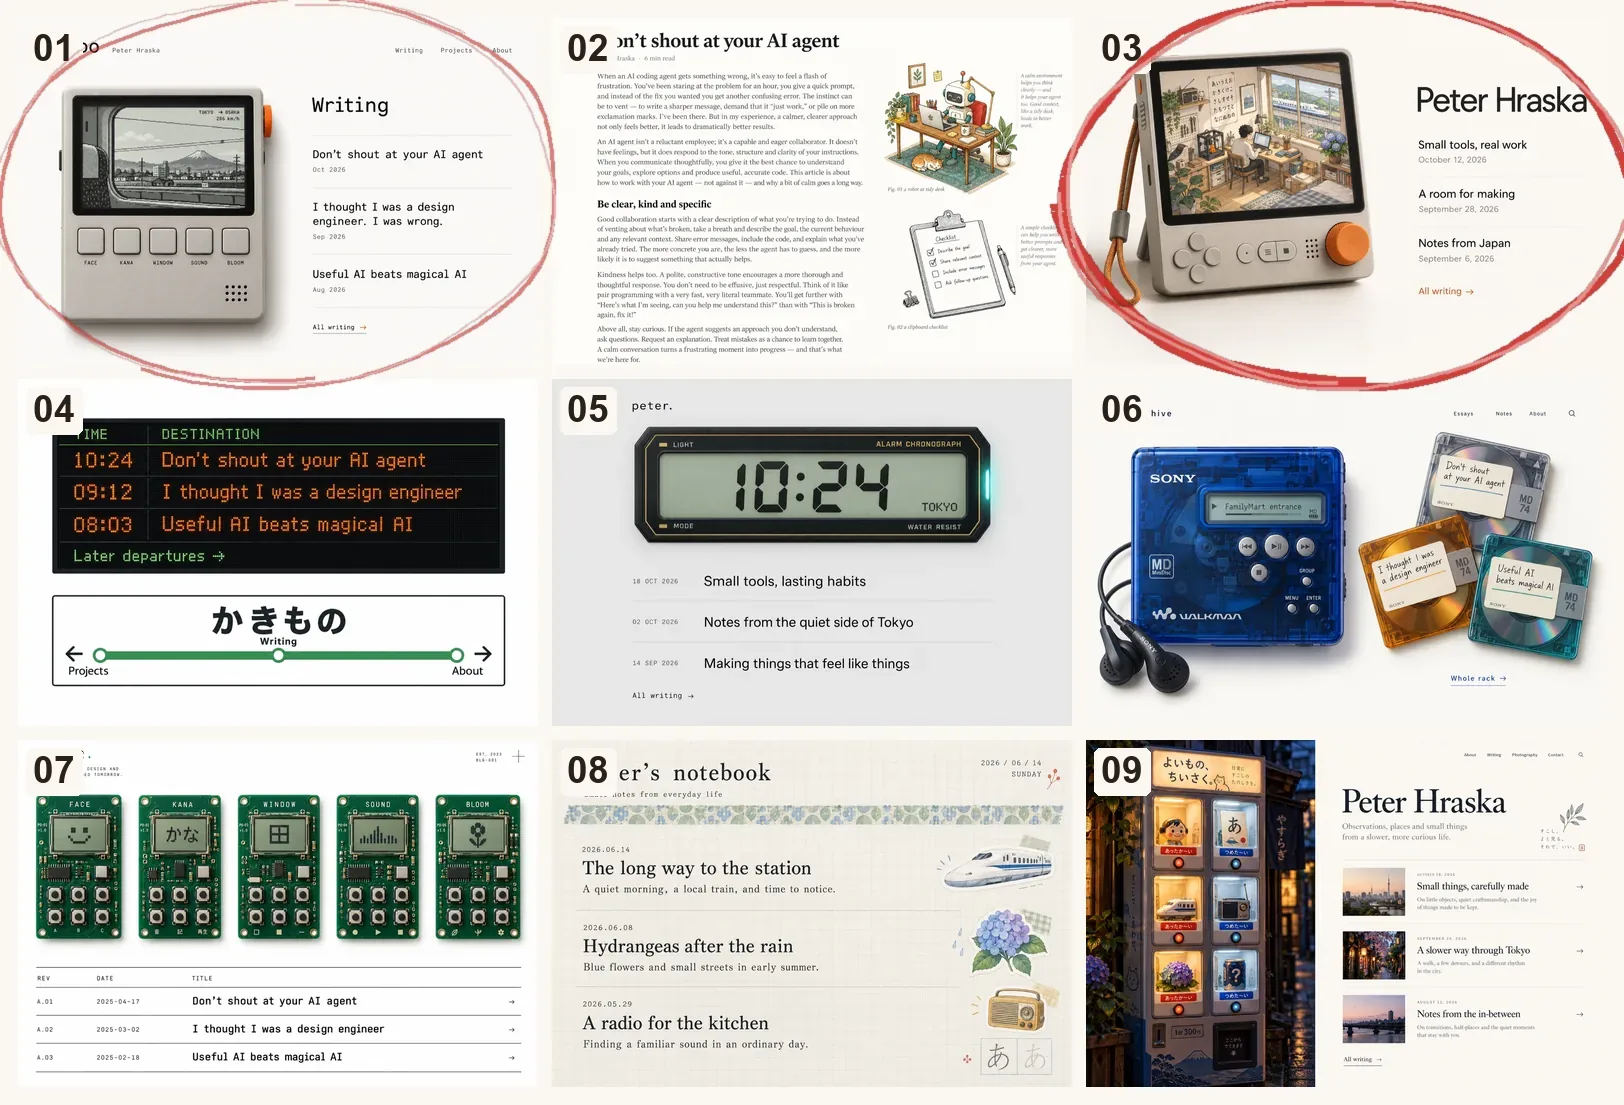
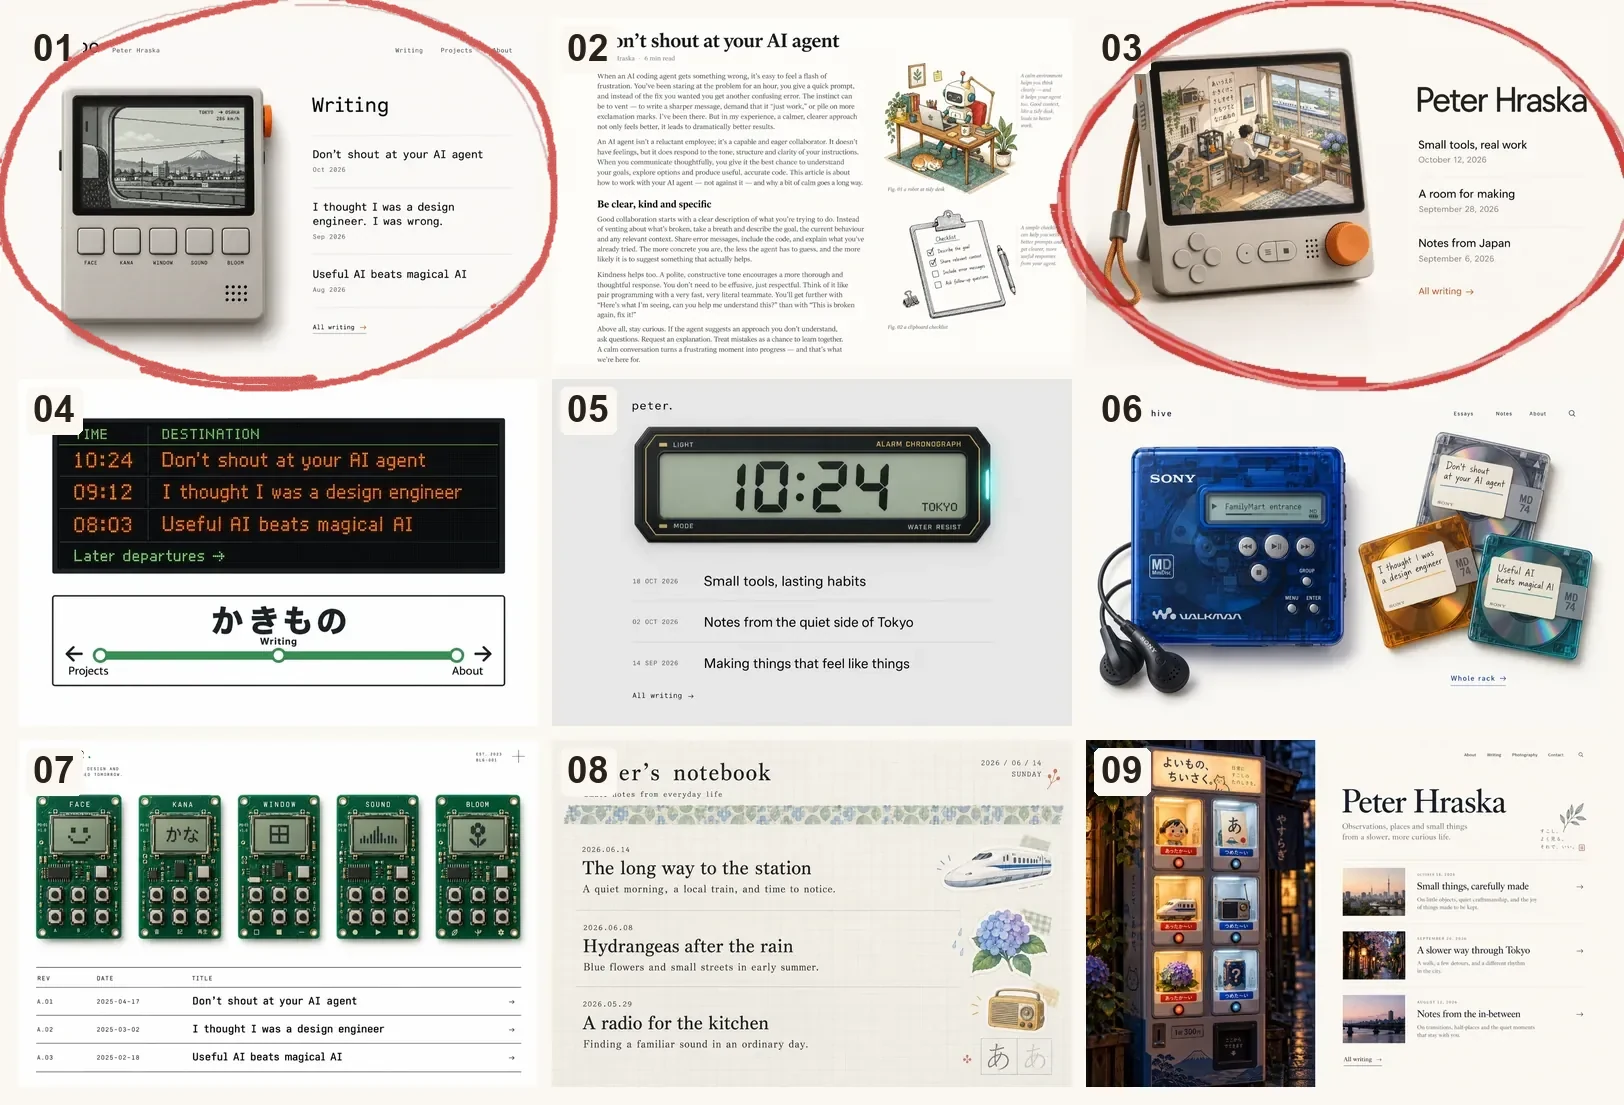
polish(post): side-view hydrangea, white-key lightbox arrows, inline code chips, Round #1/#2, bolder 01 circle, padded project list, frame previews (?frame=1-5), Made with love™, copy edits

diff --git a/app/(room)/blog/[slug]/post.module.css b/app/(room)/blog/[slug]/post.module.css
@@ -181,6 +181,16 @@
   margin: 2.2em 0;
 }
 
+/* code in a sentence: mono, a touch smaller, on a beige-grey chip */
+.body :not(pre) > code {
+  padding: 0.12em 0.38em;
+  border-radius: 5px;
+  background: #ece5da;
+  color: #3a322a;
+  font: 500 0.84em/1 var(--font-room-mono), ui-monospace, monospace;
+  white-space: nowrap;
+}
+
 /* code scrolls inside its own box instead of widening the page */
 .body pre {
   max-width: 100%;
@@ -200,6 +210,51 @@
   border-radius: 10px;
   background: #efe9df;
   box-shadow: 0 1px 0 rgba(0, 0, 0, 0.04), 0 10px 30px -14px rgba(60, 40, 20, 0.35);
+}
+
+/* candidates for the frame around pictures and loops (?frame=1…5), instead of the old site's black
+   border */
+.article[data-frame] .body :global(.articleMedia) img,
+.article[data-frame] .body :global(.articleLoopToggle) video {
+  box-sizing: border-box;
+  border: 0;
+  border-radius: 12px;
+}
+
+/* 1: a soft, warm drop shadow with a hairline edge */
+.article[data-frame="1"] .body :global(.articleMedia) img,
+.article[data-frame="1"] .body :global(.articleLoopToggle) video {
+  box-shadow: 0 0 0 1px rgba(60, 40, 20, 0.08), 0 2px 4px rgba(60, 40, 20, 0.06), 0 22px 44px -22px rgba(60, 40, 20, 0.5);
+}
+
+/* 2: an orange glow, the knob's colour under each picture */
+.article[data-frame="2"] .body :global(.articleMedia) img,
+.article[data-frame="2"] .body :global(.articleLoopToggle) video {
+  box-shadow: 0 0 0 1px rgba(232, 98, 28, 0.2), 0 24px 46px -22px rgba(232, 98, 28, 0.62);
+}
+
+/* 3: mounted on white paper, like a print in a passe-partout */
+.article[data-frame="3"] .body :global(.articleMedia) img,
+.article[data-frame="3"] .body :global(.articleLoopToggle) video {
+  padding: 10px;
+  border-radius: 14px;
+  background: #fffdf8;
+  box-shadow: 0 0 0 1px rgba(60, 40, 20, 0.07), 0 16px 32px -18px rgba(60, 40, 20, 0.42);
+}
+
+/* 4: a bezel of the handheld's aluminium, each picture a little screen */
+.article[data-frame="4"] .body :global(.articleMedia) img,
+.article[data-frame="4"] .body :global(.articleLoopToggle) video {
+  padding: 7px;
+  border-radius: 16px;
+  background: linear-gradient(176deg, #dcd5cb 0%, #c6bdb2 55%, #aca296 100%);
+  box-shadow: inset 0 1px 0 rgba(255, 255, 255, 0.95), inset 0 -2px 3px rgba(0, 0, 0, 0.12), 0 4px 0 #a1978b, 0 16px 28px -16px rgba(60, 40, 20, 0.5);
+}
+
+/* 5: printed, with an offset peach block behind, like a riso print slightly off register */
+.article[data-frame="5"] .body :global(.articleMedia) img,
+.article[data-frame="5"] .body :global(.articleLoopToggle) video {
+  box-shadow: 0 0 0 1px rgba(60, 40, 20, 0.1), 8px 8px 0 0 #f6cfae;
 }
 
 .body :global(.articleMedia) figcaption,
@@ -425,12 +480,13 @@
 .layout :global(.lightbox) {
   position: fixed;
   inset: 0;
-  width: 100vw;
+  width: auto;
   max-width: none;
   height: 100dvh;
   max-height: none;
   margin: 0;
-  padding: 3.5rem 1.2rem 2rem;
+  --gutter: clamp(1rem, 6vw, 5.5rem);
+  padding: 4.2rem var(--gutter) 2rem;
   border: 0;
   background: transparent;
   color: #fff;
@@ -475,8 +531,8 @@
 /* the close key: the arcade's round orange button, with travel when pressed */
 .layout :global(.lightboxClose) {
   position: absolute;
-  top: max(14px, env(safe-area-inset-top));
-  right: max(14px, env(safe-area-inset-right));
+  top: max(16px, env(safe-area-inset-top));
+  right: max(16px, env(safe-area-inset-right));
   display: grid;
   place-items: center;
   width: 46px;
@@ -497,6 +553,9 @@
   box-shadow: inset 0 2px 1px rgba(255, 255, 255, 0.35), 0 1px 0 #a43f15;
 }
 
+/* the arrows: white keys like the handheld's, with a dark arrow, so they read over the dark
+   backdrop and over a light picture alike. They sit in the side margins when there is room, and over
+   the picture's edge on a phone. */
 .layout :global(.lightboxStep) {
   position: absolute;
   top: 50%;
@@ -506,19 +565,33 @@
   height: 44px;
   border: 0;
   border-radius: 50%;
-  background: rgba(255, 255, 255, 0.14);
-  color: #fff;
-  font-size: 1.1rem;
+  background: radial-gradient(90% 90% at 35% 25%, #fff, rgba(255, 255, 255, 0) 60%), linear-gradient(180deg, #f4f1ec, #d9d3ca);
+  box-shadow: inset 0 1px 0 #fff, 0 3px 0 #a39a8e, 0 8px 18px -6px rgba(0, 0, 0, 0.55);
+  color: #2a2118;
+  font-size: 1.05rem;
+  font-weight: 700;
+  opacity: 0.82;
   cursor: pointer;
   transform: translateY(-50%);
+  transition: opacity 120ms ease, transform 70ms ease-out, box-shadow 70ms ease-out;
+}
+
+.layout :global(.lightboxStep):hover,
+.layout :global(.lightboxStep):focus-visible {
+  opacity: 1;
+}
+
+.layout :global(.lightboxStep):active {
+  transform: translateY(calc(-50% + 2px));
+  box-shadow: inset 0 1px 0 #fff, 0 1px 0 #a39a8e, 0 4px 10px -4px rgba(0, 0, 0, 0.5);
 }
 
 .layout :global(.lightboxStep[data-dir="prev"]) {
-  left: max(10px, env(safe-area-inset-left));
+  left: max(10px, (var(--gutter) - 44px) / 2, env(safe-area-inset-left));
 }
 
 .layout :global(.lightboxStep[data-dir="next"]) {
-  right: max(10px, env(safe-area-inset-right));
+  right: max(10px, (var(--gutter) - 44px) / 2, env(safe-area-inset-right));
 }
 
 .layout :global(.lightbox) :focus-visible {

diff --git a/app/(room)/blog/[slug]/page.tsx b/app/(room)/blog/[slug]/page.tsx
@@ -2,6 +2,7 @@ import type { Metadata } from "next";
 import Link from "next/link";
 import { notFound } from "next/navigation";
 import { ArticleLightbox } from "../../../../components/blog/ArticleLightbox";
+import { FramePreview } from "../../../../components/blog/FramePreview";
 import { compilePostMdx } from "../../../../components/blog/mdx-components";
 import { Device } from "../../../../components/room/Device";
 import { MarginToy } from "../../../../components/room/margin/MarginToy";
@@ -142,10 +143,13 @@ export default async function RoomPostPage({ params }: Props) {
 
           <div className={styles.body}>{content}</div>
           <ArticleLightbox root="room-article" />
+          <FramePreview target="room-article" />
 
           <footer className={styles.end}>
             <p className={styles.signoff}>
-              Thanks for reading. Replies are welcome at <a href="mailto:peter@hraska.sk">peter@hraska.sk</a>. Want more like this? <a href="https://x.com/virpo">Follow me on X</a>.
+              Thanks for reading. Replies are welcome at <a href="mailto:peter@hraska.sk">peter@hraska.sk</a>.
+              <br />
+              Want more like this? <a href="https://x.com/virpo">Follow me on X</a>.
             </p>
             <nav className={styles.pager} aria-label="More posts">
               {older ? (

diff --git a/components/blog/media-dimensions.ts b/components/blog/media-dimensions.ts
@@ -39,7 +39,7 @@ export const imageDimensions: Record<string, { width: number; height: number }> 
   "/assets/blog/pocket-room/story/pink-peter.webp": { width: 1400, height: 933 },
   "/assets/blog/pocket-room/story/pink-plate.webp": { width: 1400, height: 933 },
   "/assets/blog/pocket-room/story/pink-props.webp": { width: 1400, height: 933 },
-  "/assets/blog/pocket-room/story/project-list.webp": { width: 1048, height: 1118 },
+  "/assets/blog/pocket-room/story/project-list.webp": { width: 1176, height: 1246 },
   "/assets/blog/pocket-room/story/three-tries.webp": { width: 2000, height: 677 },
   "/assets/blog/pocket-room/story/youtldr-9.webp": { width: 1624, height: 1105 },
 };

diff --git a/components/blog/FramePreview.tsx b/components/blog/FramePreview.tsx
@@ -1,0 +1,13 @@
+"use client";
+
+import { useEffect } from "react";
+
+/** While Peter picks a frame for the pictures in a post, ?frame=1…5 previews the candidates. */
+export function FramePreview({ target }: { target: string }) {
+  useEffect(() => {
+    const frame = new URLSearchParams(location.search).get("frame");
+    const article = document.getElementById(target);
+    if (article && frame && /^[1-5]$/.test(frame)) article.dataset.frame = frame;
+  }, [target]);
+  return null;
+}

diff --git a/components/room/RoomChrome.tsx b/components/room/RoomChrome.tsx
@@ -47,7 +47,7 @@ export function RoomFooter() {
   return (
     <footer className={styles.footer}>
       <p>
-        Made with love by <Link href="/">Virpo</Link>
+        Made with love<sup>™</sup> by <Link href="/">Virpo</Link>
       </p>
       <RoomSocial rss className={styles.footerSocial} />
     </footer>

diff --git a/components/room/tools/margin.py b/components/room/tools/margin.py
@@ -119,12 +119,13 @@ def neko():
 
 # Centre x, y and width of each bud cluster on hydrangea.webp, in %, placed by eye, listed in the
 # order they open, with the flower head that opens there and a tilt so they don't look stamped.
-BUDS = [(56.5, 35.5, 14, 2, -6), (29, 36, 13, 1, 8), (76, 46, 13, 5, -4), (23.5, 15.5, 13, 3, 10), (79, 22.5, 13, 6, -10), (50, 6, 13, 4, 4)]
+BUDS = [(57, 39, 13, 2, -6), (30, 37, 13, 1, 8), (73.5, 50, 13, 5, -4), (23.5, 17.5, 13, 3, 10), (76.5, 22.5, 14, 6, -10), (49, 6, 14, 4, 4)]
 
 
 def hydrangea():
-    """The plant in bud, and six flower heads that open over its six bud clusters."""
-    plant = keyed("hydrangea.png")
+    """The plant in bud, seen from the side so it stands on the screen's bottom edge (hydrangea.png
+    was the first try, seen from above), and six flower heads that open over its bud clusters."""
+    plant = keyed("hydrangea-side.png")
     x0, y0, x1, y1 = bbox(plant)
     side = max(x1 - x0, y1 - y0) + 24
     canvas = np.zeros((side, side, 4), np.uint8)
